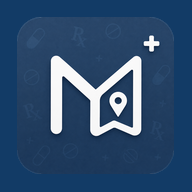
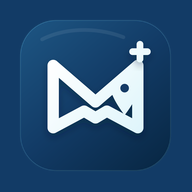
Add files via upload

diff --git a/premium-mobile.css b/premium-mobile.css
@@ -71,3 +71,16 @@ button:active{transform:scale(.975)}
   .organize-table-wrap{flex:1;min-height:0;max-height:none}.organize-shelves{gap:10px}.organize-shelf h3{padding:8px 10px;font-size:11px}.organize-column-head{display:none}.organize-entry{min-height:46px;padding:4px 5px;grid-template-columns:30px minmax(0,1fr) 96px 50px;gap:4px}.organize-entry input{padding:7px 6px}.organize-entry .organize-move-buttons button{width:23px;height:31px}.organize-insert-row{height:5px;margin:-2px 0;opacity:.12}.organize-insert-row span{width:15px;height:15px;font-size:10px}.organize-entry:focus-within + .organize-insert-row{height:18px;margin:-8px 0;opacity:1}
   .organize-actions{position:static!important;flex:none;grid-template-columns:repeat(4,minmax(0,1fr))!important;gap:6px;margin:7px -4px -4px!important;padding:7px 4px calc(4px + env(safe-area-inset-bottom))!important;overflow:visible}.organize-actions>a,.organize-actions>label,.organize-actions>button{height:44px;min-height:44px;padding:0 5px!important;font-size:10px!important;white-space:nowrap}.organize-actions .ui-icon{width:16px;height:16px}.organize-actions .action-long{display:none}.organize-actions .action-short{display:inline}
 }
+
+/* Lighter, list-led phone surfaces */
+@media(max-width:620px){
+  body{padding-bottom:calc(70px + env(safe-area-inset-bottom))}
+  .medicine-grid{gap:0;border:1px solid #dde7ed;border-radius:16px;background:rgba(255,255,255,.82);box-shadow:0 6px 20px rgba(28,65,99,.055)}
+  .medicine-card{border:0;border-bottom:1px solid #e4ebef;border-radius:0;background:transparent;box-shadow:none}.medicine-card:last-child{border-bottom:0}.medicine-card:hover{border-color:#e4ebef;box-shadow:none}.medicine-card.selected{border-color:#9cc9dc;background:#eef8fc;box-shadow:inset 3px 0 #238fc2}
+  .location{background:transparent;border-left:1px solid #e1e9ee;border-radius:0;padding:3px 8px 3px 10px}
+  .category-tag{background:transparent;padding-left:0}.expiry-tag{background:transparent;padding-inline:0}
+  .mobile-tabbar{left:8px;right:8px;bottom:calc(6px + env(safe-area-inset-bottom));height:58px;border-radius:18px;padding:4px}.mobile-tab{border-radius:12px;font-size:9px}.mobile-tab .ui-icon{width:18px;height:18px}.mobile-fab{bottom:calc(29px + env(safe-area-inset-bottom));width:52px;height:52px;border-width:4px;border-radius:17px}
+  .empty-state{border:0;background:transparent;box-shadow:none}
+  .organize-board{border:0;background:transparent;padding:2px}.organize-shelf{border:0;border-radius:0;background:transparent}.organize-shelf+ .organize-shelf{border-top:8px solid #edf3f6}.organize-shelf h3{border-radius:8px 8px 0 0}
+  .organize-entry{border-top:1px solid #e1e8ec;background:#fff}.organize-entry input{border:0;border-radius:0;background:transparent;box-shadow:none}.organize-entry input:focus{border:0;background:#f1f9fc;box-shadow:inset 0 -2px #238fc2}.organize-entry.active,.organize-entry:focus-within{background:#f7fbfd}.organize-entry .organize-move-buttons button{background:transparent;border:1px solid #dce8ee}.organize-actions{background:rgba(248,251,253,.96)!important;border-top:1px solid #dce6ec}.organize-actions>a,.organize-actions>label,.organize-actions>button{border-radius:9px;box-shadow:none}
+}

diff --git a/service-worker.js b/service-worker.js
@@ -1,5 +1,5 @@
-const CACHE = "medimap-v64";
-const ASSETS = ["./", "./index.html", "./styles.css", "./selection.css", "./theme.css", "./expiry.css", "./bulk-edit.css", "./gondolas.css", "./categories.css", "./inventory-tools.css", "./import.css", "./settings.css", "./organize.css", "./export-arrangement.css", "./premium-mobile.css", "./xlsx.full.min.js", "./MediMap_Inventory_Import_Template.xlsx", "./MediMap_Arrangement_Import_Template.xlsx", "./app.js", "./manifest.webmanifest", "./icon.svg", "./icons.svg", "./MediFindLogo.png", "./favicon.ico", "./favicon-16.png", "./favicon-32.png", "./apple-touch-icon.png", "./icon-192.png", "./icon-512.png", "./icon-maskable-192.png", "./icon-maskable-512.png"];
+const CACHE = "medimap-v65";
+const ASSETS = ["./", "./index.html", "./styles.css", "./selection.css", "./theme.css", "./expiry.css", "./bulk-edit.css", "./gondolas.css", "./categories.css", "./inventory-tools.css", "./import.css", "./settings.css", "./organize.css", "./export-arrangement.css", "./premium-mobile.css", "./xlsx.full.min.js", "./MediMap_Inventory_Import_Template.xlsx", "./MediMap_Arrangement_Import_Template.xlsx", "./app.js", "./manifest.webmanifest", "./icon.svg", "./icons.svg", "./MediFindLogo.png", "./MediMapLogoPremium.svg", "./MediMapLogoPremium.png", "./favicon.ico", "./favicon-16.png", "./favicon-32.png", "./apple-touch-icon.png", "./icon-192.png", "./icon-512.png", "./icon-maskable-192.png", "./icon-maskable-512.png"];
 
 self.addEventListener("install", (event) => event.waitUntil(caches.open(CACHE).then((cache) => cache.addAll(ASSETS))));
 self.addEventListener("activate", (event) => event.waitUntil(caches.keys().then((keys) => Promise.all(keys.filter((key) => key.startsWith("medimap-") && key !== CACHE).map((key) => caches.delete(key)))).then(() => self.clients.claim())));

diff --git a/index.html b/index.html
@@ -33,7 +33,7 @@
 </head>
 <body>
   <aside class="sidebar">
-    <a class="brand" href="#"><img class="brand-logo" src="MediFindLogo.png" alt="MediFind logo"><span class="brand-text"><strong>MediMap</strong><small id="brandCustomName" hidden></small></span></a>
+    <a class="brand" href="#"><img class="brand-logo" src="MediMapLogoPremium.svg" alt="MediMap logo"><span class="brand-text"><strong>MediMap</strong><small id="brandCustomName" hidden></small></span></a>
     <button class="sidebar-toggle" id="sidebarToggle" type="button" aria-expanded="false" aria-controls="mainNavigation" aria-label="Open navigation"><svg class="ui-icon" viewBox="0 0 24 24" aria-hidden="true"><path d="M4 7h16M4 12h16M4 17h16"/></svg></button>
     <nav id="mainNavigation" aria-label="Main navigation">
       <a class="nav-item active" href="#inventory"><svg class="ui-icon"><use href="icons.svg#search"></use></svg> Inventory</a>

diff --git a/app.js b/app.js
@@ -1,4 +1,4 @@
-const APP_VERSION = "1.6.1";
+const APP_VERSION = "1.7.0";
 const starterMedicines = [
   { id: 1, name: "Paracetamol 500mg", category: "Uncategorized", gondola: "G-01", shelf: "Shelf A", addedAt: 6 },
   { id: 2, name: "Ibuprofen 200mg", category: "Uncategorized", gondola: "G-01", shelf: "Shelf B", addedAt: 5 },

diff --git a/generate-pwa-icons.py b/generate-pwa-icons.py
@@ -2,7 +2,7 @@ from pathlib import Path
 from PIL import Image, ImageDraw
 
 ROOT = Path(__file__).parent
-SOURCE = ROOT / "MediFindLogo.png"
+SOURCE = ROOT / "MediMapLogoPremium.png"
 BACKGROUND = (18, 59, 102, 255)
 
 source = Image.open(SOURCE).convert("RGBA")
